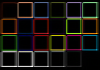
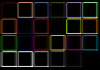
LTEdgeMaskProcessor: tweak number of iterations and sigma.

diff --git a/LTKit/LTKit/LTKit.h b/LTKit/LTKit/LTKit.h
@@ -36,13 +36,15 @@
 #import <LTKit/LTProgressiveImageProcessor.h>
 
 // Image Processing/Blocks.
-#import <LTKit/LTArithmeticProcessor.h>
 #import <LTKit/LTAdjustProcessor.h>
+#import <LTKit/LTAnalogFilmProcessor.h>
+#import <LTKit/LTArithmeticProcessor.h>
 #import <LTKit/LTBilateralFilterProcessor.h>
 #import <LTKit/LTBoundaryExtractor.h>
 #import <LTKit/LTBoxFilterProcessor.h>
 #import <LTKit/LTBWProcessor.h>
 #import <LTKit/LTColorGradient.h>
+#import <LTKit/LTEdgesMaskProcessor.h>
 #import <LTKit/LTFFTConvolutionProcessor.h>
 #import <LTKit/LTFFTProcessor.h>
 #import <LTKit/LTImageBorderProcessor.h>
@@ -86,7 +88,7 @@
 #import <LTKit/LTVertexArray.h>
 
 // GPU/Drawers.
-#import <LTKit/LTRectDrawer.h>
+#import <LTKit/LTRectDrawer+PassthroughShader.h>
 
 // GPU/Painting.
 #import <LTKit/LTPainter+LTView.h>

diff --git a/LTKit/LTKit/LTEdgesMaskProcessor.mm b/LTKit/LTKit/LTEdgesMaskProcessor.mm
@@ -61,16 +61,15 @@
 - (void)processSmoothTexture {
   LTBilateralFilterProcessor *smoother = [[LTBilateralFilterProcessor alloc]
       initWithInput:self.inputTexture outputs:@[self.smoothTexture]];
-  smoother.iterationsPerOutput = @[@(4)];
-  smoother.rangeSigma = 0.1;
+  smoother.iterationsPerOutput = @[@(2)];
+  smoother.rangeSigma = 0.2;
   [smoother process];
 }
 
 - (void)process {
-  if (!self.smoothTextureCreated) {
-    [self processSmoothTexture];
-    self.smoothTextureCreated = YES;
-  }
+  // TODO:(amit) replace logic with texture seed when available.
+  [self processSmoothTexture];
+  self.smoothTextureCreated = YES;
   return [super process];
 }
 
